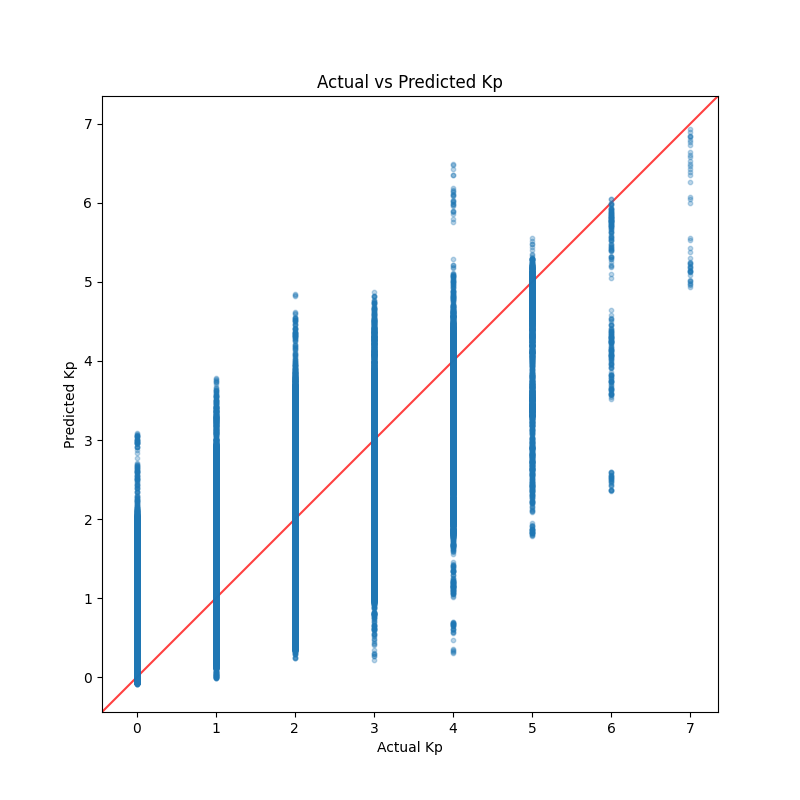
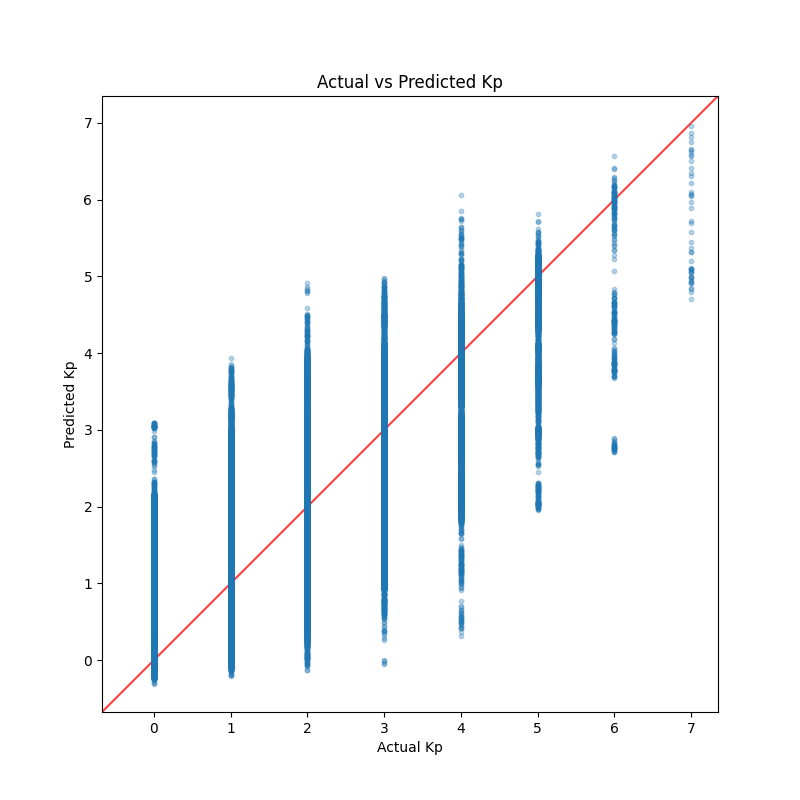
new model params, cleaned comments

diff --git a/src/models/train.py b/src/models/train.py
@@ -5,7 +5,7 @@ Features:
 - Loads preprocessed dataset
 - Splits into train/validation sets
 - Trains LSTM
-- Logs metrics and hyperparameters to Weights & Biases (wandb)
+- Logs metrics and hyperparameters to Weights & Biases
 - Saves trained model and scaler
 """
 
@@ -60,7 +60,7 @@ def main(args):
     X_train, X_val = X_full[:split_idx], X_full[split_idx:]
     y_train, y_val = y_full[:split_idx], y_full[split_idx:]
 
-    # Convert to PyTorch Tensors. This is a one-time operation.
+    # Convert to PyTorch Tensors
     X_train_tensor = torch.from_numpy(X_train)
     y_train_tensor = torch.from_numpy(y_train)
     X_val_tensor = torch.from_numpy(X_val)
@@ -71,7 +71,6 @@ def main(args):
     val_dataset = TensorDataset(X_val_tensor, y_val_tensor)
     
     num_workers = 0
-    # shuffle=True is now handled efficiently by the DataLoader on the in-memory data.
     train_loader = DataLoader(train_dataset, batch_size=config.batch_size, shuffle=True, num_workers=num_workers)
     val_loader = DataLoader(val_dataset, batch_size=config.batch_size, shuffle=False, num_workers=num_workers)
     
@@ -171,7 +170,6 @@ def main(args):
     logger.info(f"Training finished. Best model saved at {args.model_path} with validation loss {best_val_loss:.4f}")
 
     # Save model as a wandb artifact
-    # Use a consistent name for the artifact so we can easily reference it.
     artifact = wandb.Artifact("kp-lstm-model", type='model', metadata=dict(config))
     
     # Add model file
@@ -196,11 +194,11 @@ if __name__ == "__main__":
     
     # Hyperparameters
     parser.add_argument("--epochs", type=int, default=20, help="Number of training epochs.")
-    parser.add_argument("--batch_size", type=int, default=64, help="Batch size for training.")
-    parser.add_argument("--lr", type=float, default=1e-3, help="Learning rate.")
+    parser.add_argument("--batch_size", type=int, default=32, help="Batch size for training.")
+    parser.add_argument("--lr", type=float, default=.00633, help="Learning rate.")
     parser.add_argument("--hidden_size", type=int, default=64, help="LSTM hidden size.")
-    parser.add_argument("--num_layers", type=int, default=2, help="Number of LSTM layers.")
-    parser.add_argument("--dropout", type=float, default=0.1, help="Dropout rate.")
+    parser.add_argument("--num_layers", type=int, default=1, help="Number of LSTM layers.")
+    parser.add_argument("--dropout", type=float, default=0.2314, help="Dropout rate.")
     parser.add_argument("--early_stopping_patience", type=int, default=3, help="Number of epochs to wait for validation loss improvement before stopping.")
 
     args = parser.parse_args()

diff --git a/scripts/test_pipeline.py b/scripts/test_pipeline.py
@@ -1,5 +1,5 @@
 """
-Test the full data → model pipeline locally
+Test parts of the data → model pipeline locally
 """
 
 import pandas as pd
@@ -23,39 +23,39 @@ import joblib
 # ---------------------------
 print("Fetching example solar wind data...")
 sw_df = fetch_omni_data(start_year=2010, end_year=2011, resolution=24)
-# kp_df = fetch_kp_range(start_year=2010, end_year=2011)
+kp_df = fetch_kp_range(start_year=2010, end_year=2011)
 
-# kp_rt = fetch_recent_kp()
-# sw_rt = fetch_realtime_solarwind()
+kp_rt = fetch_recent_kp()
+sw_rt = fetch_realtime_solarwind()
 
-# # ---------------------------
-# # Step 2: Preprocess
-# # ---------------------------
-# print("Cleaning solar wind data...")
-# sw_clean = clean_solarwind(sw_df)
+# ---------------------------
+# Step 2: Preprocess
+# ---------------------------
+print("Cleaning solar wind data...")
+sw_clean = clean_solarwind(sw_df)
 
-# print("Adding features...")
-# sw_feat = add_time_features(sw_clean)
+print("Adding features...")
+sw_feat = add_time_features(sw_clean)
 
-# print("Scaling features...")
-# scaler = joblib.load("models/scaler.pkl")  # must match training scaler
-# sw_scaled = scaler.transform(sw_feat)
+print("Scaling features...")
+scaler = joblib.load("models/scaler.pkl")  # must match training scaler
+sw_scaled = scaler.transform(sw_feat)
 
-# # ---------------------------
-# # Step 3: Make supervised sequence
-# # ---------------------------
-# seq_length = 24
-# X_seq = make_supervised(sw_scaled, seq_length=seq_length)
+# ---------------------------
+# Step 3: Make supervised sequence
+# ---------------------------
+seq_length = 24
+X_seq = make_supervised(sw_scaled, seq_length=seq_length)
 
-# # ---------------------------
-# # Step 4: Load model and predict
-# # ---------------------------
-# model = KpLSTM(input_size=X_seq.shape[2], hidden_size=64, num_layers=2)
-# model.load_state_dict(torch.load("models/saved_model.pth", map_location="cpu"))
-# model.eval()
+# ---------------------------
+# Step 4: Load model and predict
+# ---------------------------
+model = KpLSTM(input_size=X_seq.shape[2], hidden_size=64, num_layers=2)
+model.load_state_dict(torch.load("models/saved_model.pth", map_location="cpu"))
+model.eval()
 
-# X_tensor = torch.tensor(X_seq[-1:], dtype=torch.float32)  # last sequence
-# with torch.no_grad():
-#     kp_pred = model(X_tensor)
+X_tensor = torch.tensor(X_seq[-1:], dtype=torch.float32)  # last sequence
+with torch.no_grad():
+    kp_pred = model(X_tensor)
 
-# print("Predicted Kp:", kp_pred.numpy().flatten())
+print("Predicted Kp:", kp_pred.numpy().flatten())

diff --git a/src/models/evaluate.py b/src/models/evaluate.py
@@ -2,17 +2,16 @@
 Evaluate the trained LSTM Kp forecasting model.
 
 Steps:
-1. Load processed validation/test dataset.
+1. Load processed test dataset.
 2. Load trained model and scaler.
 3. Predict Kp values.
 4. Compute evaluation metrics: MSE, MAE, RMSE.
-5. Plot predictions vs. actuals.
+5. Plot predictions vs. actuals, residuals histogram, and time-series plot.
 6. Optionally log results to W&B.
 """
 
 import numpy as np
 import torch
-import torch.nn as nn
 from torch.utils.data import DataLoader, TensorDataset
 import matplotlib.pyplot as plt
 import logging
@@ -41,13 +40,20 @@ def main(args):
     artifact = run.use_artifact(args.model_artifact, type='model')
     artifact_dir = artifact.download()
 
-    # Load config from the artifact, overriding command-line args
+    # Load config from the artifact
     config = artifact.metadata
     model_path = os.path.join(artifact_dir, "kp_lstm.pth")
 
     # Update config with runtime args
     config['data_path'] = args.data_path
-    config['batch_size'] = args.batch_size
+    
+    if args.batch_size is not None:
+        config['batch_size'] = args.batch_size
+    elif 'batch_size' not in config:
+        config['batch_size'] = 64  # Fallback default if missing in artifact
+        logger.info("Batch size not found in artifact config, defaulting to 64.")
+    else:
+        logger.info(f"Using batch size from training artifact: {config['batch_size']}")
 
     # ---------------------------
     # Load Dataset
@@ -189,7 +195,7 @@ if __name__ == "__main__":
     
     # Runtime settings
     parser.add_argument("--data_path", type=str, default="datafiles/processed/test_data.npz", help="Path to the test data file.")
-    parser.add_argument("--batch_size", type=int, default=64, help="Batch size for evaluation.")
+    parser.add_argument("--batch_size", type=int, default=None, help="Batch size for evaluation. Defaults to training batch size.")
     parser.add_argument("--project_name", type=str, default="aurora-forecast", help="W&B project name.")
     parser.add_argument("--output_dir", type=str, default="results", help="Directory to save evaluation results (metrics and plots).")
 

diff --git a/src/build_dataset.py b/src/build_dataset.py
@@ -44,7 +44,7 @@ def main(start_year, end_year, output_dir, test_split_ratio, window, horizon, re
     # 1. Fetch Historical Data
     # ---------------------------
     logging.info(f"Fetching historical data from {start_year} to {end_year}...")
-    sw_df = fetch_omni_data(start_year=start_year, end_year=end_year, resolution=resolution)
+    sw_df = fetch_omni_data(start_year=start_year, end_year=end_year)
     kp_df = fetch_kp_range(start_year=start_year, end_year=end_year)
 
     # --- Add validation check ---
@@ -52,7 +52,6 @@ def main(start_year, end_year, output_dir, test_split_ratio, window, horizon, re
         logging.error("One or both initial dataframes are empty. Aborting. Check data fetching for the specified year range.")
         return
 
-    # --- Pre-emptive fix for duplicate labels ---
     # Group by time_tag and average to remove any duplicate timestamps before merging.
     logging.info("Ensuring timestamp uniqueness before merging...")
     sw_df = sw_df.groupby('time_tag').mean().reset_index()
@@ -88,7 +87,7 @@ def main(start_year, end_year, output_dir, test_split_ratio, window, horizon, re
     df_feat['kp_prev'] = df_feat['kp_index'].shift(1)
     df_feat = df_feat.dropna()  # Drop the first row which is now NaN
 
-    # Use 'kp_prev' as a feature, but EXCLUDE the target 'kp_index'
+    # Use 'kp_prev' as a feature, but exclude the target 'kp_index'
     feature_cols = [col for col in df_feat.columns if col not in ['time_tag', 'kp_index']]
     target_col = 'kp_index'
     logging.info(f"Using features: {feature_cols}")
@@ -105,7 +104,7 @@ def main(start_year, end_year, output_dir, test_split_ratio, window, horizon, re
     # 4. Scale Features
     # ---------------------------
     logging.info("Scaling features (fitting on training data only)...")
-    # Fit the scaler ONLY on the training data to prevent data leakage
+    # Fit the scaler only on the training data to prevent data leakage
     df_train_scaled, scaler = scale_features(df_train, feature_cols)
     
     # Transform the test data using the same scaler

diff --git a/src/data/fetch_sw_historical.py b/src/data/fetch_sw_historical.py
@@ -1,4 +1,3 @@
-import os
 import logging
 import pandas as pd
 import pyomnidata
@@ -11,16 +10,15 @@ if not logger.hasHandlers():
     logging.basicConfig(level=logging.INFO, format="%(asctime)s - %(levelname)s - %(message)s")
 
 
-def fetch_omni_data(start_year: int, end_year: int, resolution: int = 1) -> pd.DataFrame:
+def fetch_omni_data(start_year: int, end_year: int) -> pd.DataFrame:
     """
     Download historical OMNI solar-wind data for model training.
 
-    Provides key solar-wind features: speed, density, Bz, and Bt.
+    Provides key solar-wind features: speed, density, Bz, Bt, and temp.
 
     Args:
         year_start (int): Starting year.
         year_end (int): Ending year (inclusive).
-        resolution (int, optional): Time resolution in minutes. Default is 60 (hourly).
 
     Returns:
         pd.DataFrame: ['time_tag', 'speed', 'density', 'b', 'bz', 'temp'].
@@ -47,8 +45,5 @@ def fetch_omni_data(start_year: int, end_year: int, resolution: int = 1) -> pd.D
     # Set time_tag as index and resample to ensure consistent 1-minute frequency
     df = df.set_index('time_tag')
     df = df[["speed", "density", "b", "bz", "temp"]]
-    # df = df.resample(f'{resolution}min').mean()  # Resample to the desired final resolution
-    # df = df.interpolate(method='linear').bfill()  # Interpolate and then back-fill any remaining NaNs
-    
-    # logger.info(f"Resampled to {len(df)} rows of OMNI data at {resolution}-minute resolution")
+
     return df.reset_index()

diff --git a/src/data/fetch_kp_historical.py b/src/data/fetch_kp_historical.py
@@ -32,10 +32,10 @@ def fetch_kp_year(file_year: int) -> pd.DataFrame:
             if not re.match(r"^\d{4}\s+\d{2}\s+\d{2}", line):
                 continue
 
-            # Extract ALL numbers, even glued: [-1-1] → [-1, -1]
+            # Extract all numbers, even glued: [-1-1] → [-1, -1]
             nums = list(map(int, re.findall(r"-?\d+", line)))
 
-            # nums = [YYYY, MM, DD, A_index, K1, K2, ... K9, (next A?), ...]
+            # nums = [YYYY, MM, DD, A_index, K1, K2, ..., K8]
             yyyy, mm, dd = nums[:3]
             base_date = datetime(yyyy, mm, dd)
 

diff --git a/src/data/preprocess.py b/src/data/preprocess.py
@@ -57,8 +57,8 @@ def scale_features(df: pd.DataFrame, feature_cols: list):
 
 def make_supervised(df, feature_cols, target_col, window=24, horizon=3, indices=None):
     """
-    Convert a time-series DataFrame into supervised learning windows for
-    sequence models like LSTMs or Transformers.
+    Convert a time-series DataFrame into supervised learning windows for 
+    sequence model (LSTM).
 
     Args:
         df (pd.DataFrame): Input data with features + target.

diff --git a/src/models/infer.py b/src/models/infer.py
@@ -5,7 +5,7 @@ Steps:
 1. Load trained model and scaler.
 2. Accept raw/current solar wind features (or preprocessed data).
 3. Apply preprocessing, scaling, and feature engineering.
-4. Predict Kp index (single or multi-step horizon).
+4. Predict Kp index (multi-step horizon).
 5. Return predictions in a user-friendly format.
 """
 
